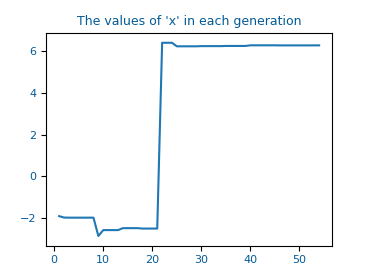
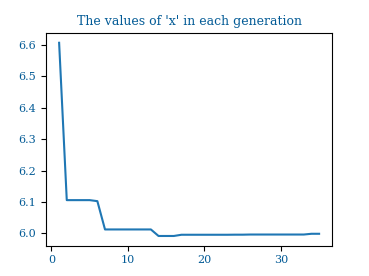
Fix GUI

diff --git a/gui/streamlit_app.py b/gui/streamlit_app.py
@@ -9,6 +9,7 @@ from evolution_algorithm.solver import Solver
 import requests
 from pathlib import Path
 from PIL import Image
+from evolution_algorithm.visualizer import Visualize
 
 output_path = Path(__file__).parent
 assets_path = output_path / Path(r"../assets")
@@ -49,9 +50,10 @@ def main():
             return
         try:
             solver = Solver(equation = a)
-            results = solver.solve()
-            solution = str(results[0][-1])
-            exc_time = results[3]
+            x_result, y_result, fitness, execution_time = solver.solve()
+            solution = str(x_result[-1])
+            
+            exc_time = execution_time
         
         except Exception:
             st.error("Please input a valid equation.")
@@ -67,9 +69,13 @@ def main():
             st.write("###")
             st.write("The graph below shows the best fitness value for each generation.")
             left_column, right_column = st.columns(2)
-            
-            st.image(Image.open(vizs_path / Path("x.png")))
-            st.image(Image.open(vizs_path / Path("y.png")))
+            Visualize.plot_result(x_result, y_result)
+
+            with left_column:
+                st.image(Image.open(vizs_path / Path("x.png")))
+
+            with right_column:
+                st.image(Image.open(vizs_path / Path("y.png")))
 
 
     #--- Helper Section ---

diff --git a/evolution_algorithm/visualizer.py b/evolution_algorithm/visualizer.py
@@ -4,17 +4,17 @@ import pylab
 import os
 import sys
 from pathlib import Path
-from solver import Solver
 
 path = os.path.abspath(os.path.join(os.path.dirname(__file__), '..'))
 sys.path.insert(0, path)
+from evolution_algorithm.solver import Solver
 
 class Visualize:
 
     @staticmethod
     def plot_result(x_result, y_result):
-        title_font = {'fontname': 'Consolas', 'size': 9, 'color': '#035B96'}
-        tick_font = {'fontname': 'Consolas', 'size': 8, 'color': '#035B96'}
+        title_font = {'fontname': 'serif', 'size': 9, 'color': '#035B96'}
+        tick_font = {'fontname': 'serif', 'size': 8, 'color': '#035B96'}
         
 
         save_dir = os.path.dirname(os.path.dirname(os.path.abspath(__file__)))
